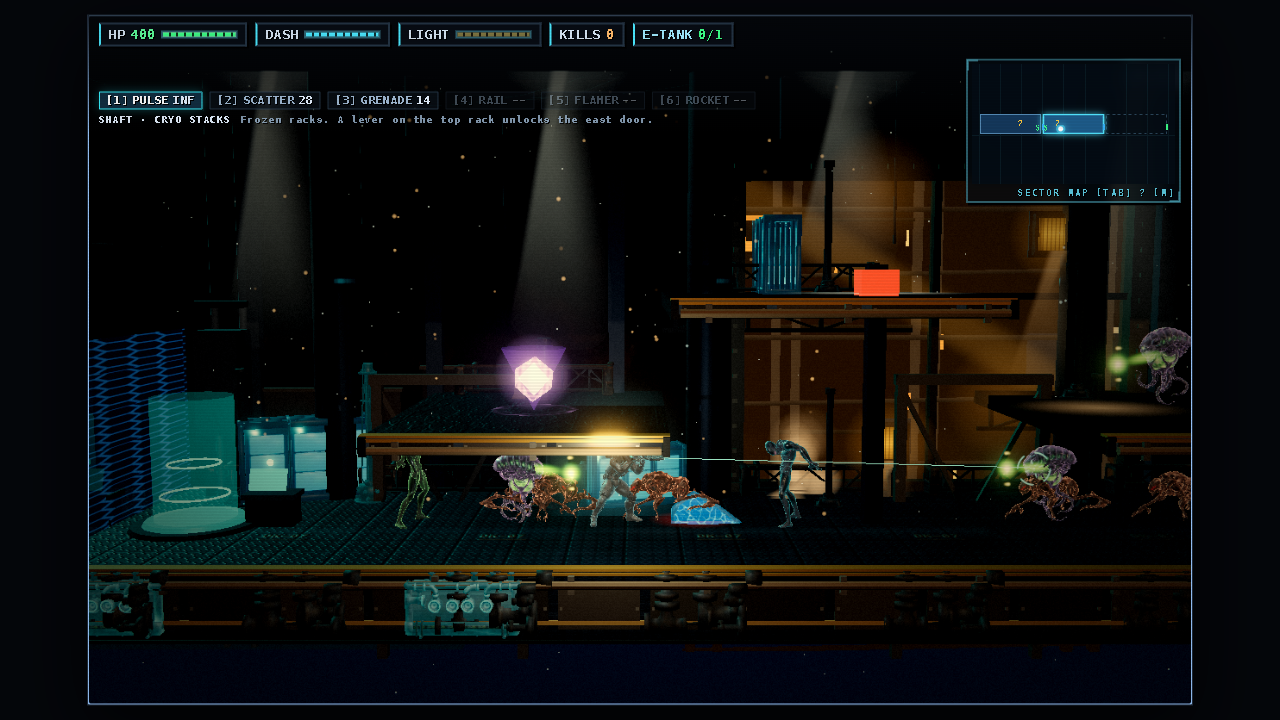
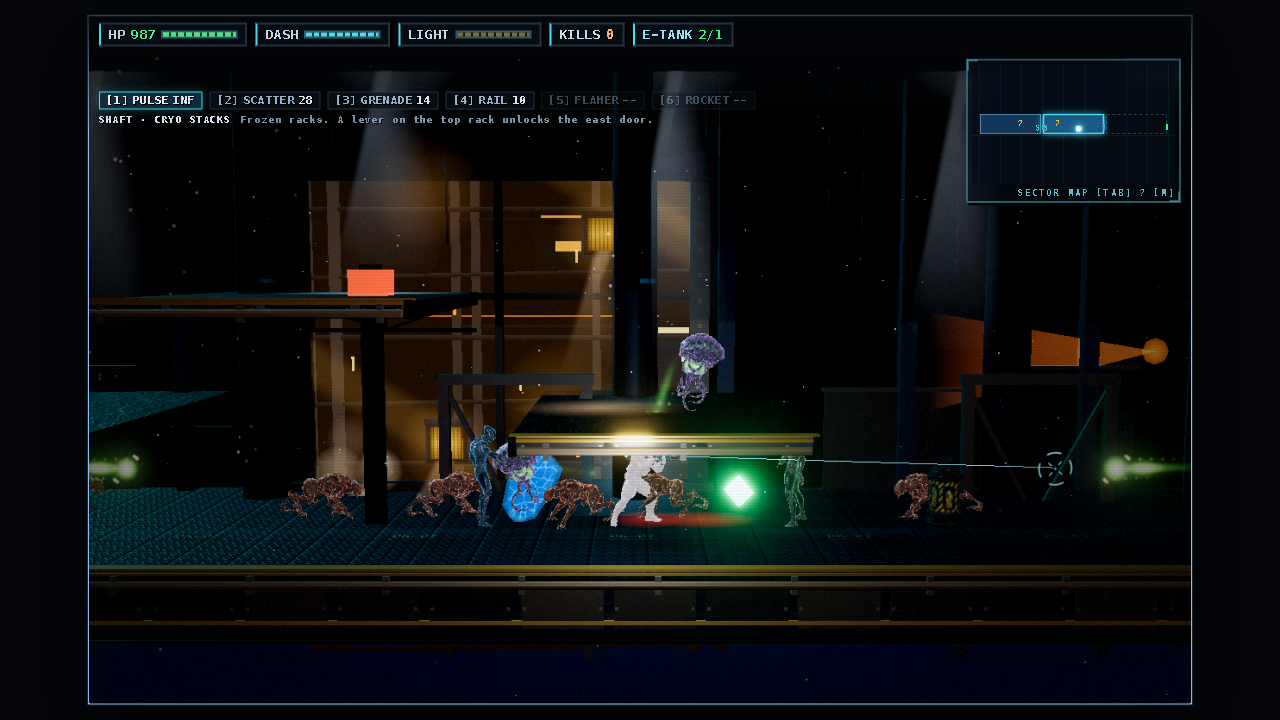
fix: Stage 3 coolant-pipe-wall on the back lane so it reads; retake R22 screenshots and draw calls

diff --git a/src/render3d/terrainKit.ts b/src/render3d/terrainKit.ts
@@ -50,8 +50,8 @@ export const kitUrl = (id: KitId): string => `/assets/models/terrain/${id}.glb`;
 
 export const KIT_STRIP_M = 24;
 
-/** face: on the front plane of a solid at least 1 m tall. stand: upright on a floor top (rear lane). lay: flat on a floor top. edge: along a floor's front lip. beam: lying along the rear lane of a floor top. */
-type Mode = 'face' | 'stand' | 'lay' | 'edge' | 'beam';
+/** face: on the front plane of a solid at least 1 m tall. stand: upright on a floor top (rear lane). lay: flat on a floor top. edge: along a floor's front lip. beam: lying along the rear lane of a floor top. back: upright against the back wall on a floor top, facing the camera (R22 coolant-pipe-wall). */
+type Mode = 'face' | 'stand' | 'lay' | 'edge' | 'beam' | 'back';
 interface Rule {
   kit: KitId;
   mode: Mode;
@@ -106,23 +106,23 @@ const ROOM_RULES: Record<string, Rule[]> = {
   room_s2_hall: [{ kit: 'foundry-conveyor', mode: 'beam', size: 4.6, pitch: 5.4, max: 3 }],
   room_s2_slag: [{ kit: 'slag-crucible', mode: 'stand', size: 2.8, pitch: 9, max: 1 }],
   room_s2_furnace: [{ kit: 'slag-crucible', mode: 'stand', size: 3.0, pitch: 9, max: 1 }],
-  room_s3_breach: [{ kit: 'coolant-pipe-wall', mode: 'face', size: 3.0, pitch: 6, max: 2, at: 0.5 }],
+  room_s3_breach: [{ kit: 'coolant-pipe-wall', mode: 'back', size: 4.2, pitch: 5, max: 3 }],
   room_s3_stacks: [
     { kit: 'coolant-column', mode: 'stand', size: 3.6, pitch: 10, max: 1 },
-    { kit: 'coolant-pipe-wall', mode: 'face', size: 3.0, pitch: 6, max: 2, at: 0.5 },
+    { kit: 'coolant-pipe-wall', mode: 'back', size: 4.2, pitch: 5, max: 3 },
     { kit: 'cryo-rack', mode: 'stand', size: 2.6, pitch: 7, max: 2 },
   ],
   room_s3_hatchery: [
-    { kit: 'coolant-pipe-wall', mode: 'face', size: 3.0, pitch: 6, max: 2, at: 0.5 },
+    { kit: 'coolant-pipe-wall', mode: 'back', size: 4.2, pitch: 5, max: 3 },
     { kit: 'cryo-rack', mode: 'stand', size: 2.4, pitch: 8, max: 1 },
   ],
   room_s3_spine: [
     { kit: 'coolant-column', mode: 'stand', size: 3.6, pitch: 10, max: 1 },
-    { kit: 'coolant-pipe-wall', mode: 'face', size: 3.0, pitch: 6, max: 2, at: 0.5 },
+    { kit: 'coolant-pipe-wall', mode: 'back', size: 4.2, pitch: 5, max: 3 },
   ],
   room_s3_arena: [
     { kit: 'coolant-column', mode: 'stand', size: 3.8, pitch: 9, max: 1 },
-    { kit: 'coolant-pipe-wall', mode: 'face', size: 3.2, pitch: 6, max: 2, at: 0.5 },
+    { kit: 'coolant-pipe-wall', mode: 'back', size: 4.4, pitch: 5, max: 3 },
   ],
 };
 
@@ -219,6 +219,10 @@ export function kitPlacementsForSolid(s: MapSolid3D, sector: SectorId3D, roomId?
           z = s.minZ + 0.9 + rnd() * 1.1;
           scale = r.size * (0.75 + rnd() * 0.5);
           rotY = rnd() * Math.PI * 2;
+          break;
+        case 'back':
+          y = top;
+          z = s.minZ + 1.2;
           break;
         case 'lay':
           y = top + 0.01;

diff --git a/tests/terrain-kit.test.ts b/tests/terrain-kit.test.ts
@@ -194,6 +194,8 @@ test('R22 stage 3 props: pipe walls and cryo racks sit in the named rooms, glow 
   const rooms = (kit: KitId) => new Set(u3.filter((u) => u.kit === kit).flatMap((u) => u.placements.map((p) => roomOf(l3 as never, p.x))));
   assert.deepEqual([...rooms('coolant-pipe-wall')].sort(), ['room_s3_arena', 'room_s3_breach', 'room_s3_hatchery', 'room_s3_spine', 'room_s3_stacks']);
   assert.deepEqual([...rooms('cryo-rack')].sort(), ['room_s3_hatchery', 'room_s3_stacks']);
+  // Pipe walls stand on a floor top against the rear lane (visible), not on the front face of floor slabs.
+  for (const u of u3.filter((x) => x.kit === 'coolant-pipe-wall')) for (const p of u.placements) assert.ok(p.z <= -1.5 && p.scale >= 4, `pipe wall at x ${p.x} reads on the back wall`);
   const again = planKitUnits(l3, stageSectorAt(l3));
   assert.deepEqual(again.map((u) => [u.key, u.placements.length]), u3.map((u) => [u.key, u.placements.length]));
   for (const id of ['coolant-pipe-wall', 'cryo-rack', 'frost-shield'] as KitId[]) {

diff --git a/docs/evidence/r22_assets/DRAWCALLS.md b/docs/evidence/r22_assets/DRAWCALLS.md
@@ -1,14 +1,27 @@
 # R22 Stage 3 draw calls
 
-Measured in the dev server with `__reanimator().perf.drawCalls` (max of 6 samples after the sector GLBs loaded, Stage 3, player on the floor). Budget is 300 per sector.
+Measured in the dev server with `__reanimator().perf.drawCalls` (max of 6 samples, 9 to 12 s after loading the spot on a fresh page, so the lazy kit GLBs have loaded, Stage 3, foes present, player on the floor). Budget is 300 per sector.
 
-| Spot | Sector | Draw calls |
+| Spot | Room | Draw calls |
 |---|---|---|
-| Breach Hall (x 10) | airlock | 95 |
-| Cryo Stacks (x 40, Bulwark fight) | shaft | 108 |
-| Cryo Stacks (x 60) | shaft | 108 |
-| Hatchery (x 105) | biolabs | 104 (94 with foes cleared) |
-| Power Spine (x 165) | security | 104 |
-| Spine end (x 185) | core | 104 |
+| Breach Hall (x 10) | room_s3_breach | 95 |
+| Cryo Stacks (x 36) | room_s3_stacks | 138 |
+| Hatchery (x 108) | room_s3_hatchery | 128 |
+| Power Spine (x 150) | room_s3_spine | 122 |
+| Warden Arena (x 194) | room_s3_arena | 124 |
 
-Console errors: 0. Screenshots: `bulwark_shield_up.png`, `bulwark_shield_down.png` (shield lowered on the ground during windup), `hatchery_pipe_wall.png`. The cryo rack and coolant column are visible in `bulwark_shield_up.png`.
+Console errors: 0.
+
+## Screenshots
+
+- `bulwark_shield_up.png`: Bulwark with the frost shield raised in front.
+- `bulwark_shield_down.png`: Bulwark in its attack state, shield lowered and tilted to the ground in front of it.
+- `cryo_stacks_rack_pipewall.png`: Cryo Stacks with coolant-pipe-wall units on the back lane and cryo-racks.
+- `hatchery_pipe_wall.png`: Hatchery pipe walls with all foes alive.
+- `warden_arena_pipe_wall.png`: `room_s3_arena` with the pipe walls.
+
+## Findings
+
+- The all-white enemies in the earlier `hatchery_pipe_wall.png` were not a regression. That capture used the `clearFoes` debug setup, which sets `alive = false` with `deathTicks = 0`, so every corpse sat on the first frame of the white death pop (`deathPopAmount`). Without `clearFoes` enemies render normally (see the screenshots above).
+- The pipe walls were not visible because `face` mode puts them on the front plane of the floor slabs, below the floor edge. They now use a new `back` mode (upright on the floor top against the rear lane, `z = minZ + 1.2`), size 4.2 (4.4 in the arena), pitch 5, max 3.
+- Kit GLBs stream in a few seconds after a sector loads, so a screenshot taken right after the setup call shows no props yet.
